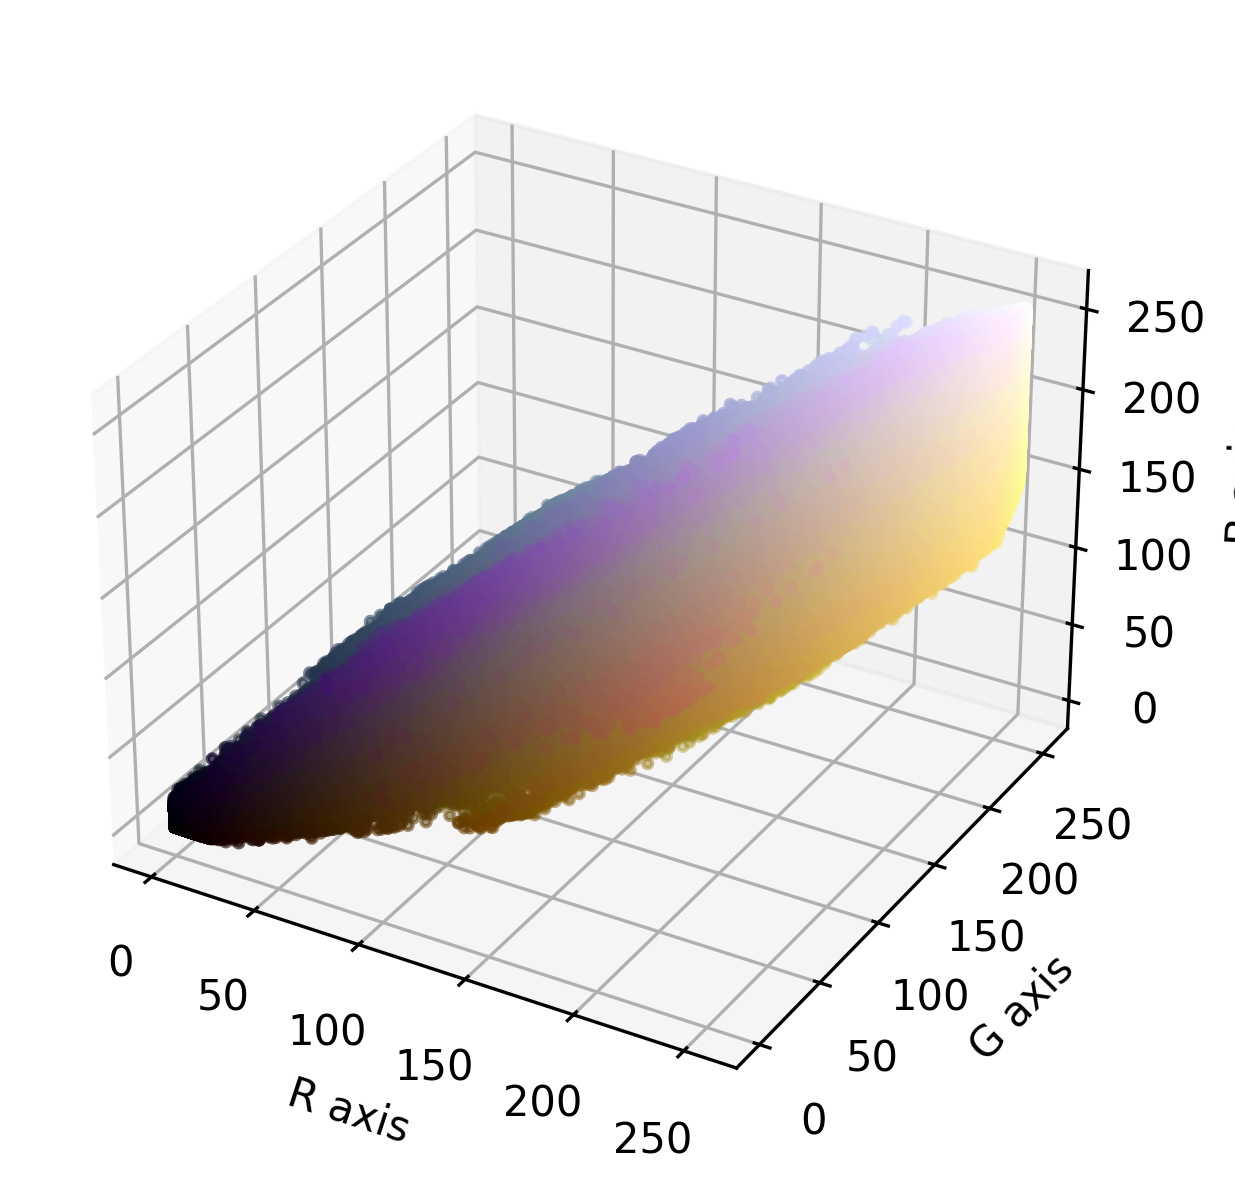
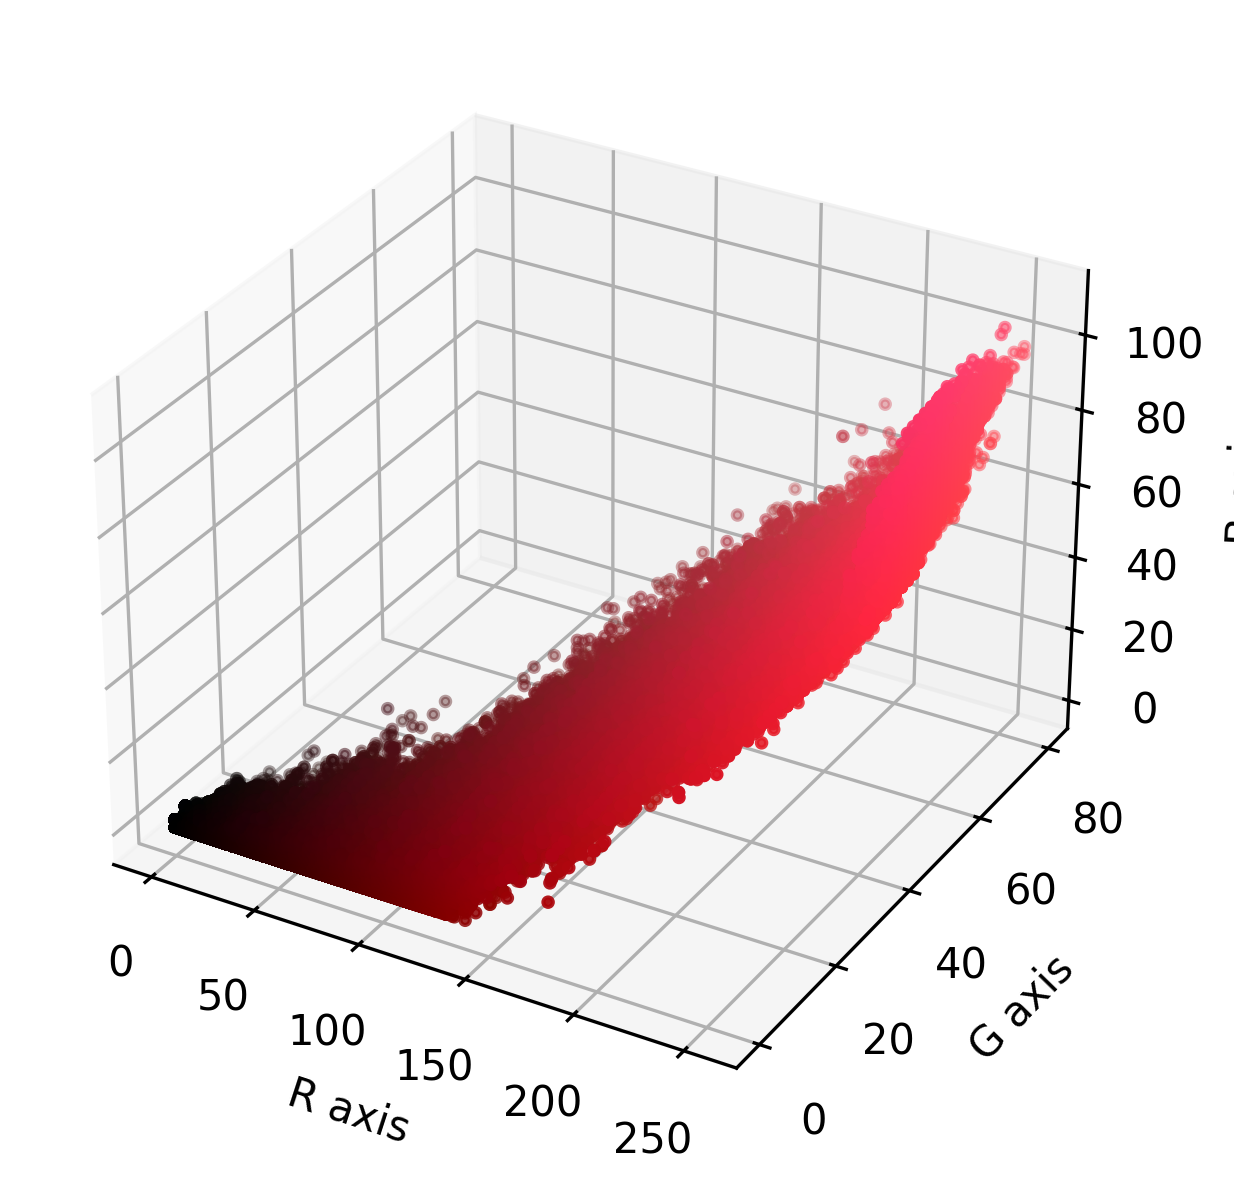
Two k_means succesfully implemented for rgb space! The output of 2k_means can be found in data/output/k_means For the file name it is named by solar panel, # k_means, file name

diff --git a/tests/test_kmeans.py b/tests/test_kmeans.py
@@ -42,30 +42,60 @@ def test_constructor2():
         assert 0 <= centroid[1] and 255 >= centroid[1]
         assert 0 <= centroid[2] and 255 >= centroid[2]
 
-def test_kmeans():
+def test_kmeans1():
     k = 2
-    dir = "data/raw/20241116_111731.jpg"
-    img = ELMImage(dir)
+    img_dir = Path.cwd() / "data" / "processed" / "sp1" / "IMG_6613.png"
+    out_dir = Path.cwd() / "data" / "output" / "k_means" 
+    img = ELMImage(img_dir)
     calc = k_means_calc(k, img)
 
-    calc.k_means()
+    calc.k_means(out_dir)
 
-# test print function of python
-def test_pathlib(capsys):
-    with capsys.disabled():
-    #     for p in Path().iterdir():
-    #         print(p)
+def test_kmeans2():
+    k = 2
+    img_dir = Path.cwd() / "data" / "processed" / "sp2" / "IMG_6609.png"
+    out_dir = Path.cwd() / "data" / "output" / "k_means"
+    img = ELMImage(img_dir)
+    calc = k_means_calc(k, img)
 
-        my_dir = Path("data")
-        my_file = Path("IMG_6592.HEIC")
+    calc.k_means(out_dir)
+
+def test_kmeans3():
+    k = 2
+    img_dir = Path.cwd() / "data" / "processed" / "sp3" / "IMG_6674.png"
+    out_dir = Path.cwd() / "data" / "output" / "k_means"
+    img = ELMImage(img_dir)
+    calc = k_means_calc(k, img)
+
+    calc.k_means(out_dir)
+
+def test_kmeans4():
+    k = 2
+    img_dir = Path.cwd() / "data" / "processed" / "sp4" / "IMG_6643.png"
+    out_dir = Path.cwd() / "data" / "output" / "k_means"
+    img = ELMImage(img_dir)
+    calc = k_means_calc(k, img)
+
+    calc.k_means(out_dir)
 
 
-        print(my_dir.parent.parent)
-        print(my_dir.absolute().parent)
-        print(my_dir.exists())
-        print(Path("..").resolve())
-        print(Path(__file__).resolve().parent)
-        print(my_file.absolute())
+
+# # test print function of python
+# def test_pathlib(capsys):
+#     with capsys.disabled():
+#     #     for p in Path().iterdir():
+#     #         print(p)
+
+#         my_dir = Path("data")
+#         my_file = Path("IMG_6592.HEIC")
+
+
+#         print(my_dir.parent.parent)
+#         print(my_dir.absolute().parent)
+#         print(my_dir.exists())
+#         print(Path("..").resolve())
+#         print(Path(__file__).resolve().parent)
+#         print(my_file.absolute())
 
 
     

diff --git a/tests/test_model.py b/tests/test_model.py
@@ -7,12 +7,12 @@ from src.processing.ELMImage import ELMImage
 
 # checks getter methods
 def test_get_dir():
-    dir = Path("data")
-    img = ELMImage(dir)
+    dir = Path.cwd() / "data" / "processed" / "sp1" / "IMG_6612.png"
+    img = ELMImage(dir) 
     assert dir == img.dir
 
 def test_get_bgr_arr():
-    dir = "data/raw/20241116_110324.jpg"
+    dir = Path.cwd() / "data" / "processed" / "sp1" / "IMG_6612.png"
     img = ELMImage(dir)
     expected_bgr_arr = cv2.imread(dir)
     actual_bgr_arr = img.bgr_arr
@@ -24,7 +24,7 @@ def test_get_bgr_arr():
     assert np.array_equal(actual_bgr_arr, expected_bgr_arr)
 
 def test_get_hsv_arr():
-    dir = "data/raw/20241116_110324.jpg"
+    dir = Path.cwd() / "data" / "processed" / "sp1" / "IMG_6612.png"
     img = ELMImage(dir)
     expected_img = cv2.imread(dir)
     expected_hsv_arr = cv2.cvtColor(expected_img, cv2.COLOR_BGR2HSV)
@@ -35,7 +35,7 @@ def test_get_hsv_arr():
     assert np.array_equal(actual_hsv_arr, expected_hsv_arr)
 
 def test_get_dimensions():
-    dir = "data/raw/20241116_110324.jpg"
+    dir = Path.cwd() / "data" / "processed" / "sp1" / "IMG_6612.png"
     img = ELMImage(dir)
     expected_img = cv2.imread(dir)
     expected_dim = expected_img.shape
@@ -45,24 +45,24 @@ def test_get_dimensions():
 
 # disregard test, just tryna understand how the rgb_arr is stored
 def test_rgb_shape():
-    dir = "data/raw/20241116_110324.jpg"
+    dir = Path.cwd() / "data" / "processed" / "sp1" / "IMG_6612.png"
     img = cv2.imread(dir)
     rgb_arr = cv2.cvtColor(img, cv2.COLOR_BGR2RGB)
     print(rgb_arr.shape)
     print(rgb_arr)
 
 def test_rgb_scatter():
-    dir = "data/raw/20241116_110324.jpg"
+    dir = Path.cwd() / "data" / "processed" / "sp1" / "IMG_6612.png"
     img = ELMImage(dir)
     img.disp_rgb_scatter()
 
 def test_hsv_scatter():
-    dir = "data/raw/20241116_110324.jpg"
+    dir = Path.cwd() / "data" / "processed" / "sp1" / "IMG_6612.png"
     img = ELMImage(dir)
     img.disp_hsv_scatter()
 
 def test_resize_img():
-    dir = "data/raw/20241116_110324.jpg"
+    dir = Path.cwd() / "data" / "processed" / "sp1" / "IMG_6612.png"
     img = ELMImage(dir)
     expected_img = cv2.imread(dir)
     

diff --git a/src/core/kmeans.py b/src/core/kmeans.py
@@ -1,6 +1,7 @@
 import cv2
 import numpy as np
 import random
+from pathlib import Path
 
 
 # imports all functions made in kmeans
@@ -20,7 +21,7 @@ class k_means_calc:
         else:
             self.centroids = centroids
     
-    def k_means(self):
+    def k_means(self, out_dir: Path):
         # Convert 3D array [x, y, colour_channels] into flatten 1d array [[colour_channels]]
         # indice of array matches pixel (x,y)
         pixel_vals = self.img.bgr_arr.reshape((-1,3))
@@ -36,17 +37,12 @@ class k_means_calc:
 
         segmented_image = segmented_data.reshape((self.img.bgr_arr.shape))
 
-        plt.axis('off')
-        plt.savefig(f'data/output/two_means/{self.k}k-means.png', dpi=300, transparent=True, bbox_inches='tight')
+        self.save_k_means(segmented_image, out_dir)
 
-
-    
-
-
-
-
-
-
-# Implement these later maybe
+    def save_k_means(self, channel_arr, out_dir: Path):
+        out_dir.mkdir(parents=True, exist_ok=True)
+        out_filename = f"{self.k}k_{self.img.dir.with_suffix(".png").name}"
+        out_path = out_dir / f"{self.img.dir.parent.name}_{out_filename}"
+        cv2.imwrite(str(out_path), channel_arr)
 
     

diff --git a/src/processing/ELMImage.py b/src/processing/ELMImage.py
@@ -3,6 +3,7 @@ import cv2
 import numpy as np
 import matplotlib.pyplot as plt
 import matplotlib.colors as mcolors
+from pathlib import Path
 
 class ELMImage:
 
@@ -13,9 +14,9 @@ class ELMImage:
         image: the image to reference to, must have valid path to file
 
     """
-    def __init__(self, dir):
+    def __init__(self, dir: Path):
         self.dir = dir
-        self.bgr_arr = cv2.imread(dir.absolute())
+        self.bgr_arr = cv2.imread(dir)
         self.rgb_arr = cv2.cvtColor(self.bgr_arr, cv2.COLOR_BGR2RGB)
         self.hsv_arr = cv2.cvtColor(self.bgr_arr, cv2.COLOR_BGR2HSV)
         self.height, self.width = self.rgb_arr.shape[:2]
@@ -96,4 +97,7 @@ class ELMImage:
         b = np.array(b.flatten())
         c = np.array(c.flatten())
         return [a, b, c]
+    
+    def generate_hsv_img
+
 
